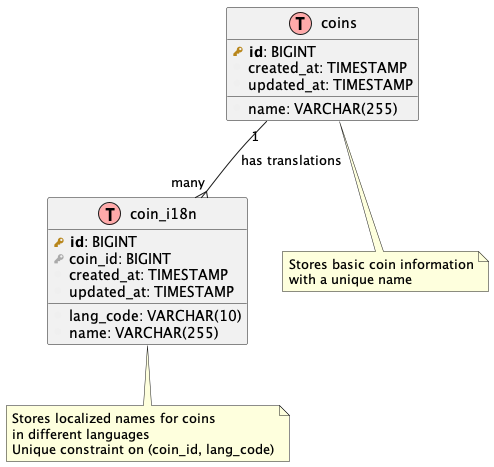
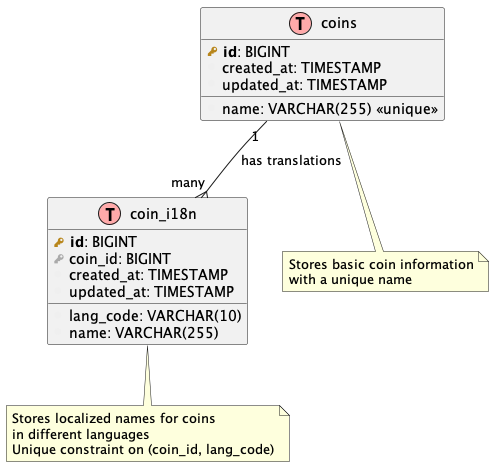
feat: make name column unique of coins table

Changed region(s): [[0.3947, 0.06, 0.9109, 0.2698], [0.8806, 0.06, 0.9109, 0.0899]]

diff --git a/src/main/java/io/jistud/coindesk/repository/CoinRepository.java b/src/main/java/io/jistud/coindesk/repository/CoinRepository.java
@@ -11,4 +11,5 @@ import java.util.Optional;
 public interface CoinRepository extends JpaRepository<Coin, Long> {
     Optional<Coin> findByName(String name);
     List<Coin> findByNameContainingIgnoreCase(String partialName);
+    boolean existsByName(String name);
 }

diff --git a/src/main/java/io/jistud/coindesk/entity/Coin.java b/src/main/java/io/jistud/coindesk/entity/Coin.java
@@ -6,7 +6,9 @@ import java.util.HashSet;
 import java.util.Set;
 
 @Entity
-@Table(name = "coins")
+@Table(name = "coins", uniqueConstraints = {
+    @UniqueConstraint(name = "uk_coins_name", columnNames = {"name"})
+})
 public class Coin {
 
     @Id
